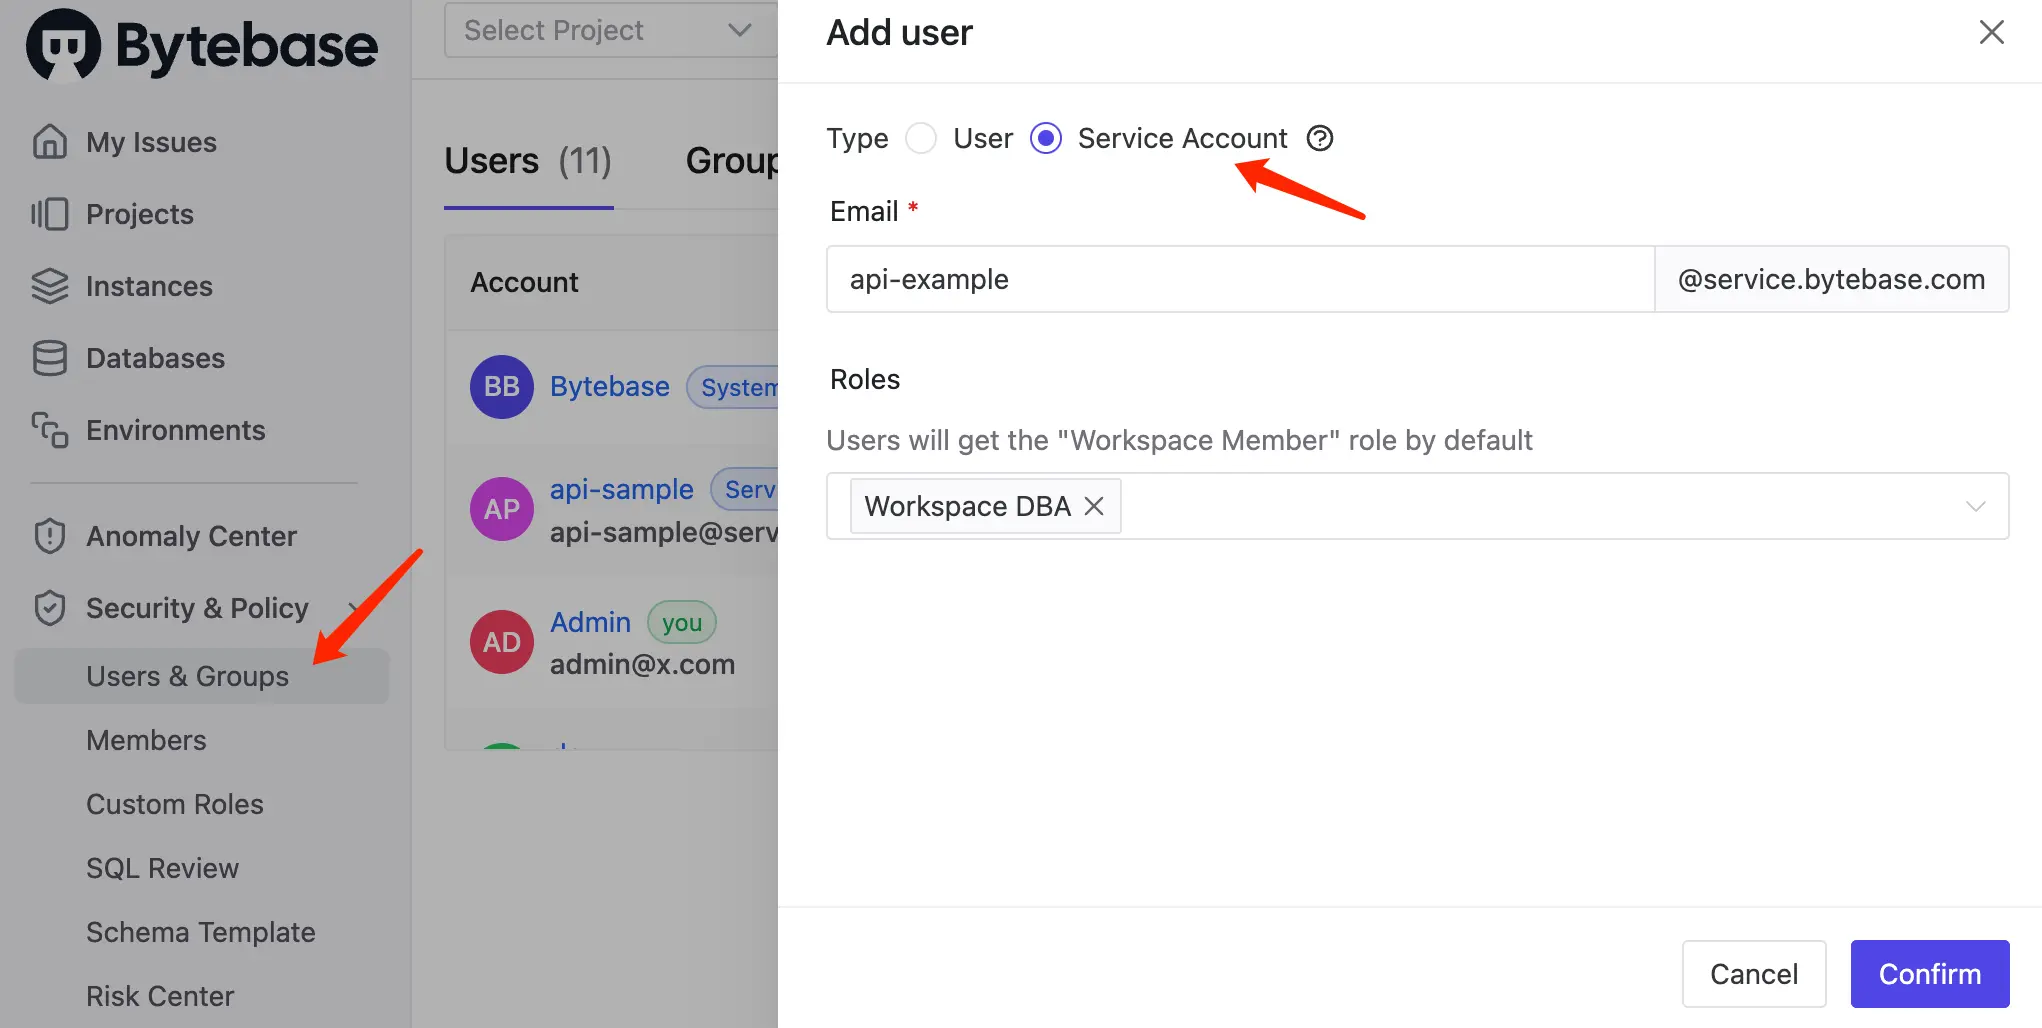
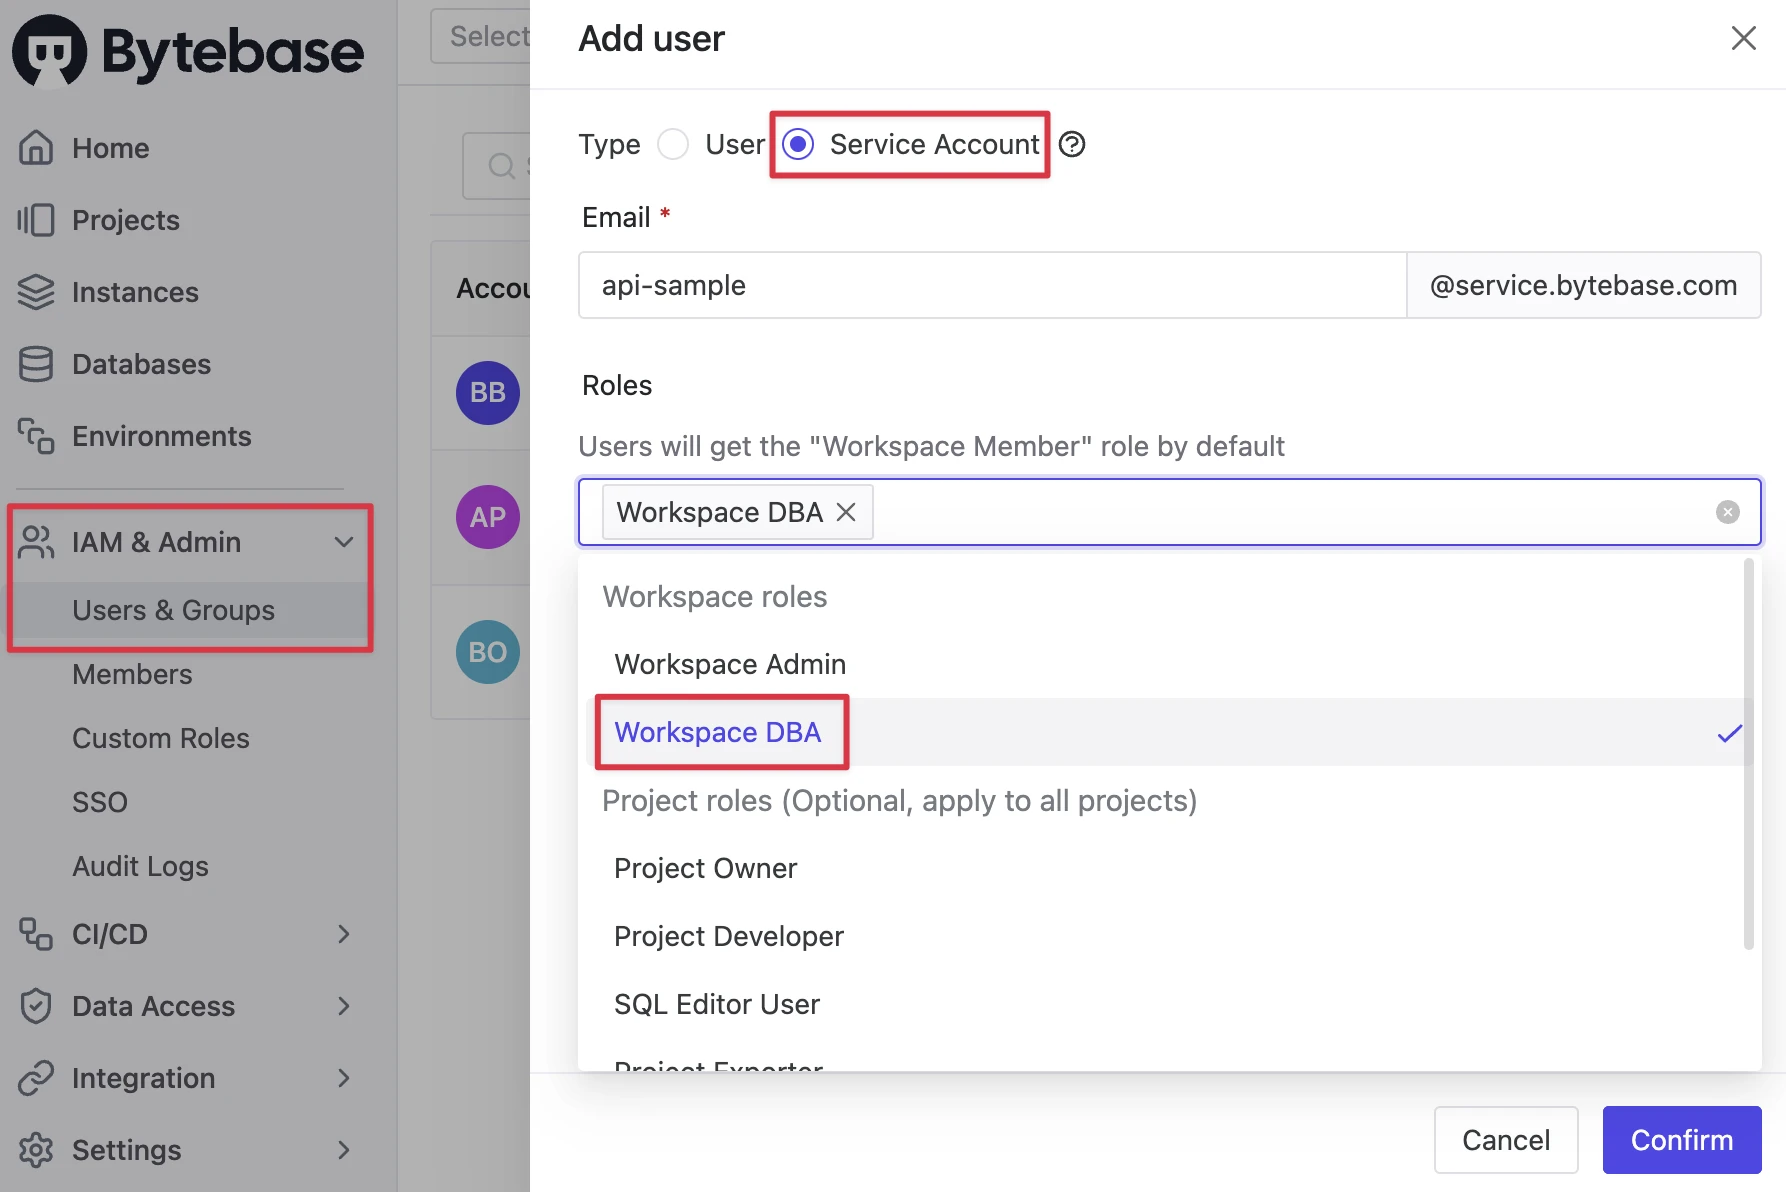
docs: update sql review tut (#516)
* docs: update sql-review tut

* update

* update

diff --git a/content/docs/tutorials/api-sql-review.md b/content/docs/tutorials/api-sql-review.md
@@ -15,7 +15,7 @@ This tutorial will guide you through configuring SQL review rules using the Byte
 
 <HintBlock type="info">
 
-This tutorial code repository is at https://github.com/bytebase/api-example/tree/main/sql-review
+[Tutorial Code Repository](https://github.com/bytebase/api-example/tree/main/sql-review)
 
 </HintBlock>
 
@@ -34,15 +34,16 @@ This tutorial code repository is at https://github.com/bytebase/api-example/tree
 
 ## Obtain the Access Token
 
-1. Go to [Bytebase API Example
-   repo](https://github.com/bytebase/api-example) and clone it.
+1. Go to [Bytebase API Example repo](https://github.com/bytebase/api-example) and clone it.
 
-1. Go to subfolder `sql-review`, and follow the instructions in the `README.md` to run the scripts. replace the `bytebase_url`, `bytebase_account`, `bytebase_password` with your own values. Then you will get a `bytebase_token` looks like `ey....9V8s`.
+1. Navigate to the `sql-review` subfolder and follow the instructions in the `README.md` file of the example code repository to execute the scripts.
+   
+1. Replace `bytebase_url`, `bytebase_account`, and `bytebase_password` in the commands below with your own values, then run them to obtain a `bytebase_token` in your terminal.
 
    ```bash
    export bytebase_url=http://localhost:8080
    export bytebase_account=api-sample@service.bytebase.com
-   export bytebase_password=bbs_xxxxxxxxxxxxxilcLVG
+   export bytebase_password=bbs_************ilcLVG
    bytebase_token=$(curl -v ${bytebase_url}/v1/auth/login \
       --data-raw '{"email":"'${bytebase_account}'","password":"'${bytebase_password}'","web":true}' \
       --compressed 2>&1 | grep token | grep -o 'access-token=[^;]*;' | grep -o '[^;]*' | sed 's/access-token=//g; s/;//g')
@@ -54,21 +55,6 @@ This tutorial code repository is at https://github.com/bytebase/api-example/tree
 1. Continue following the `README.md` to run the scripts.
 
    ```bash
-   curl --request PATCH ${bytebase_url}/v1/reviewConfigs/basic \
-      --header 'Authorization: Bearer '${bytebase_token} \
-      --data @policy/basic.json
-
-   curl --request PATCH ${bytebase_url}/v1/reviewConfigs/advanced \
-      --header 'Authorization: Bearer '${bytebase_token} \
-      --data @policy/advanced.json
-   ```
-
-1. In the Bytebase console, navigate to **CI/CD > SQL Review** to see the applied SQL review rules. You may click **Edit** to change the rules.
-   ![bb-sql-review-config](/content/docs/tutorials/api-sql-review/bb-sql-review-config.webp)
-
-1. To delete the SQL review rules, use the following commands:
-
-   ```bash
    curl --request PATCH "${bytebase_url}/v1/reviewConfigs/basic?allow_missing=true&update_mask=rules" \
       --header 'Authorization: Bearer '${bytebase_token} \
       --data @policy/basic.json
@@ -78,11 +64,14 @@ This tutorial code repository is at https://github.com/bytebase/api-example/tree
       --data @policy/advanced.json
    ```
 
+1. In the Bytebase console, navigate to **CI/CD > SQL Review** to see the applied SQL review rules. You may click **Edit** to change the rules.
+   ![sql-review-config](/content/docs/tutorials/api-sql-review/sql-review-config.webp)
+
 ## Attach SQL Review Policies to Resources
 
-You may notice that the SQL review rules are not applied to any resources yet from the above screenshot. In Bytebase, the SQL review rules can be applied to the `environments` or `projects`. Project-level rules take precedence over environment-level rules.
+We'll apply these SQL review rules to `environments` or `projects`. Project-level rules take precedence over environment-level rules.
 
-1. Follow the `README.md` to run the scripts to apply the SQL review rules to environments.
+1. Run these command in 'README.md' of the repo to apply the SQL review rules to environments.
 
    ```bash
    curl --request PATCH "${bytebase_url}/v1/environments/test/policies/tag?allow_missing=true&update_mask=payload" \
@@ -103,15 +92,15 @@ You may notice that the SQL review rules are not applied to any resources yet fr
    ```
 
 1. On the **CI/CD > SQL Review** page, you will see the SQL review rules are applied to environments and projects.
-   ![bb-sql-review-config-rsc](/content/docs/tutorials/api-sql-review/bb-sql-review-config-rsc.webp)
+   ![sql-review-config-apply](/content/docs/tutorials/api-sql-review/sql-review-config-apply.webp)
 
 1. Go to **Environments** page, click **Test** environment to see the applied SQL review rules.
-   ![bb-env](/content/docs/tutorials/api-sql-review/bb-env.webp)
+   ![sql-review-env](/content/docs/tutorials/api-sql-review/sql-review-env.webp)
 
 1. Go to `Sample Project` page, click **Setting** on the left sidebar to see the applied the SQL review rules.
    ![bb-project-setting](/content/docs/tutorials/api-sql-review/bb-project-setting.webp)
 
-1. To detach SQL review policies from environments and projects, use the following commands:
+1. To detach SQL review policies from environments, use the following commands:
 
    ```bash
    curl --request DELETE ${bytebase_url}/v1/environments/test/policies/tag \
@@ -121,8 +110,20 @@ You may notice that the SQL review rules are not applied to any resources yet fr
       --header 'Authorization: Bearer '${bytebase_token}
    ```
 
+   Similarly as to detach from projects:
+
    ```bash
    curl --request DELETE ${bytebase_url}/v1/projects/project-sample/policies/tag \
+      --header 'Authorization: Bearer '${bytebase_token}
+   ```
+
+1. To delete the SQL review rules, use the following commands:
+
+   ```bash
+   curl --request DELETE ${bytebase_url}/v1/reviewConfigs/basic \
+      --header 'Authorization: Bearer '${bytebase_token}
+
+   curl --request DELETE ${bytebase_url}/v1/reviewConfigs/advanced \
       --header 'Authorization: Bearer '${bytebase_token}
    ```
 

diff --git a/content/docs/share/tutorials/create-service-account.md b/content/docs/share/tutorials/create-service-account.md
@@ -1,5 +1,5 @@
-1.  Log in as the admin user, and go to **Security & Policy > Users & Groups**. Click **+ Add User**, fill in with `api-example`, choose the `DBA` role that is sufficient for this tutorial and click **Confirm**.
+1.  Log in as 'Workspace Admin', and go to **IAM & Admin** > **Users & Groups**. Click **+ Add User**, fill in with `api-sample`, choose the `Workspace DBA` role sufficient for this tutorial and click **Confirm**.
     ![service-account-create](/content/docs/tutorials/share/add-service-account.webp)
 
-1.  Find the newly created service account and click on **Copy Service Key**. We will use this token to authenticate the API calls.
+1.  Find the newly created service account and **Copy Service Key**. We will use this token to authenticate the API calls.
     ![service-account-key](/content/docs/tutorials/share/service-account-key.webp)
